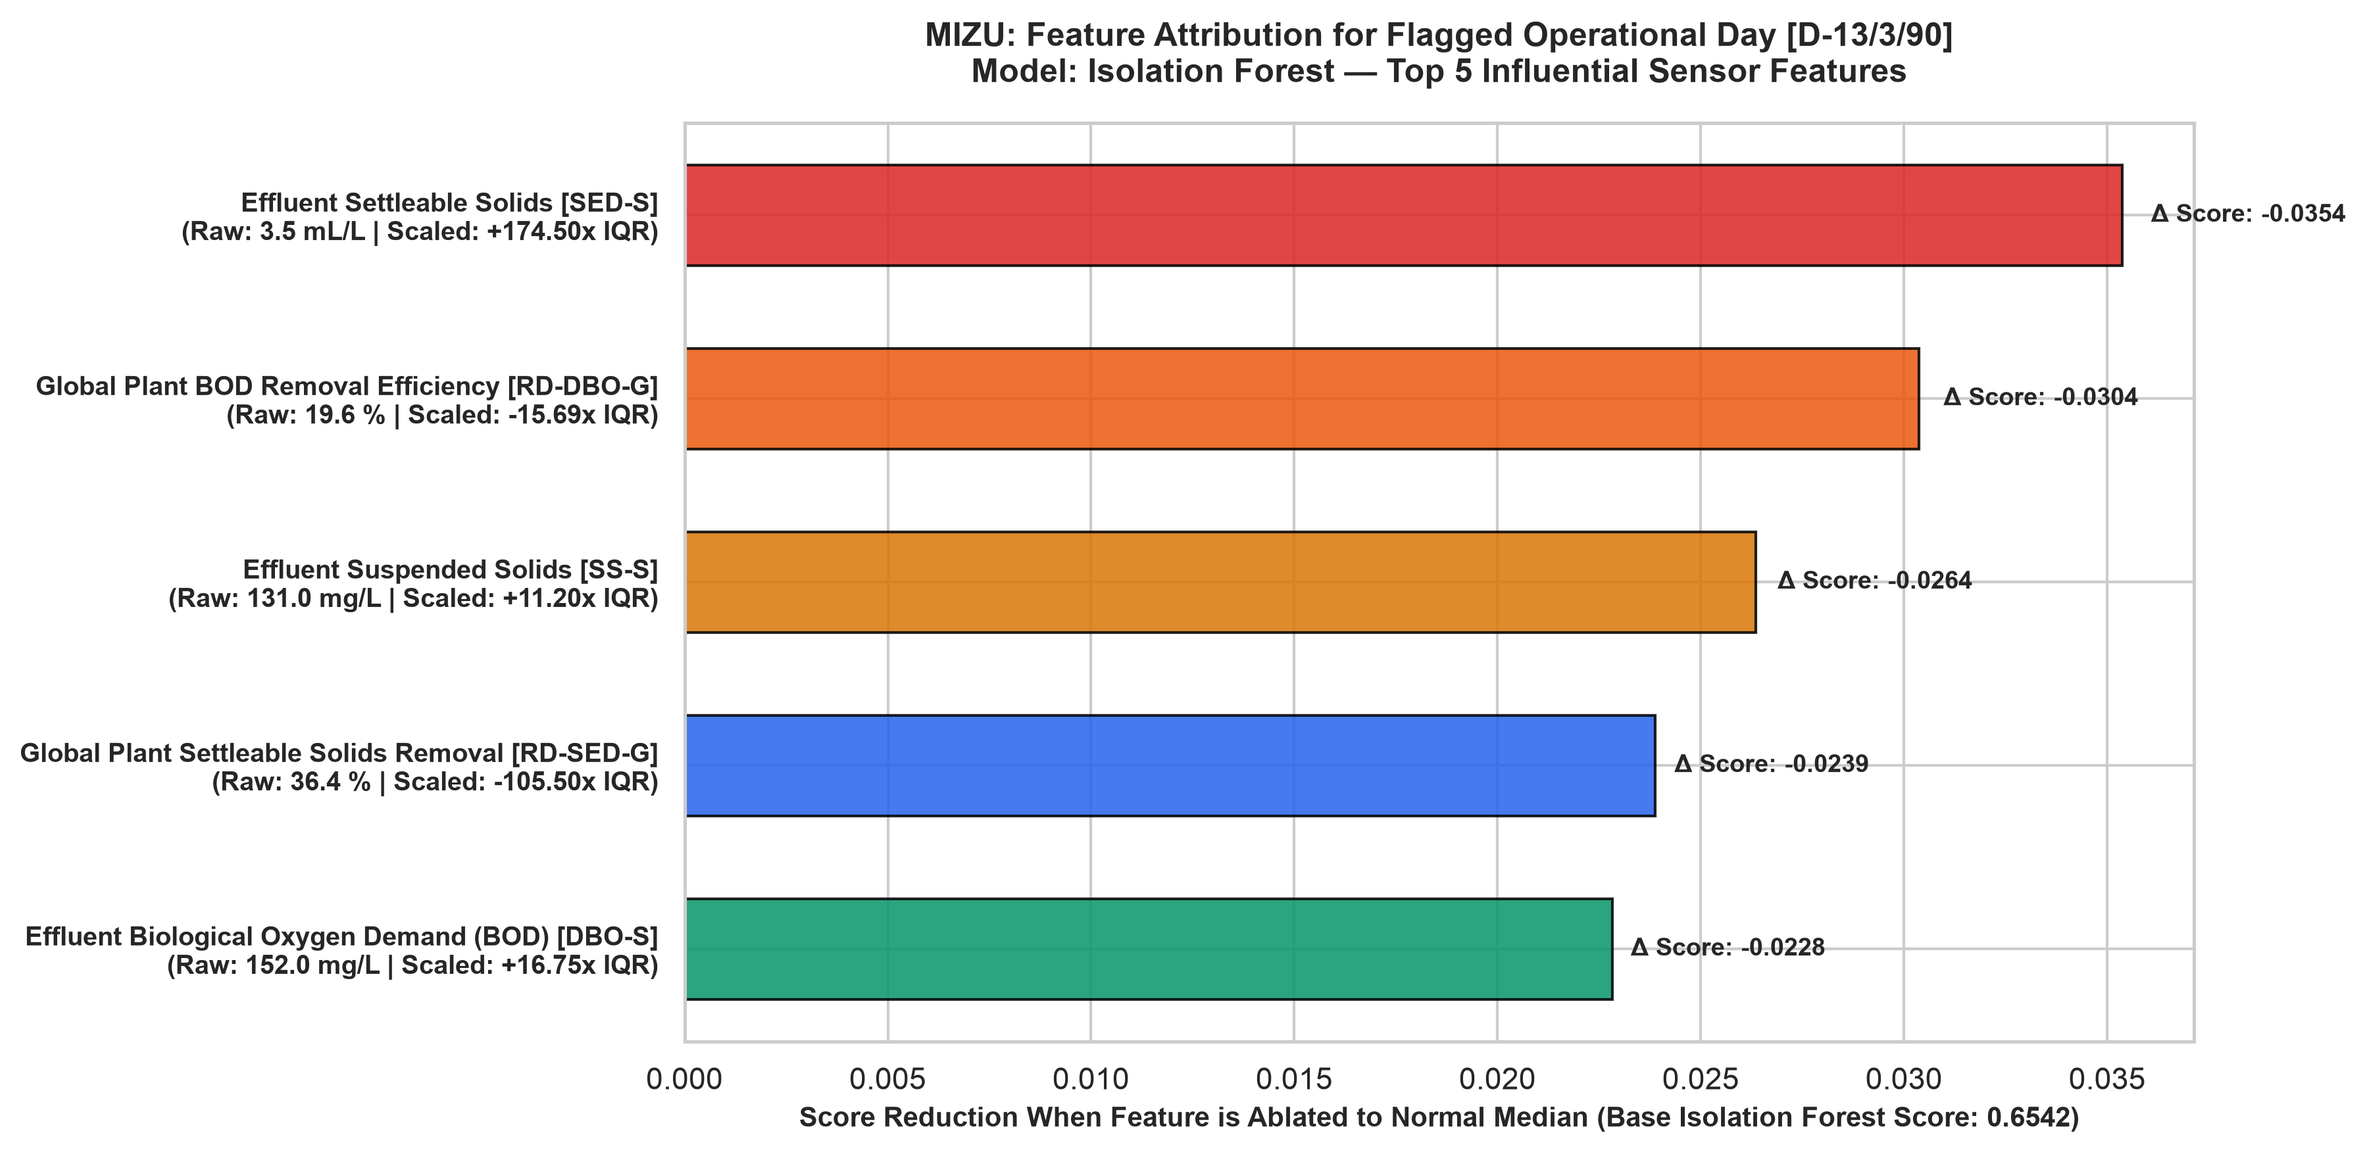
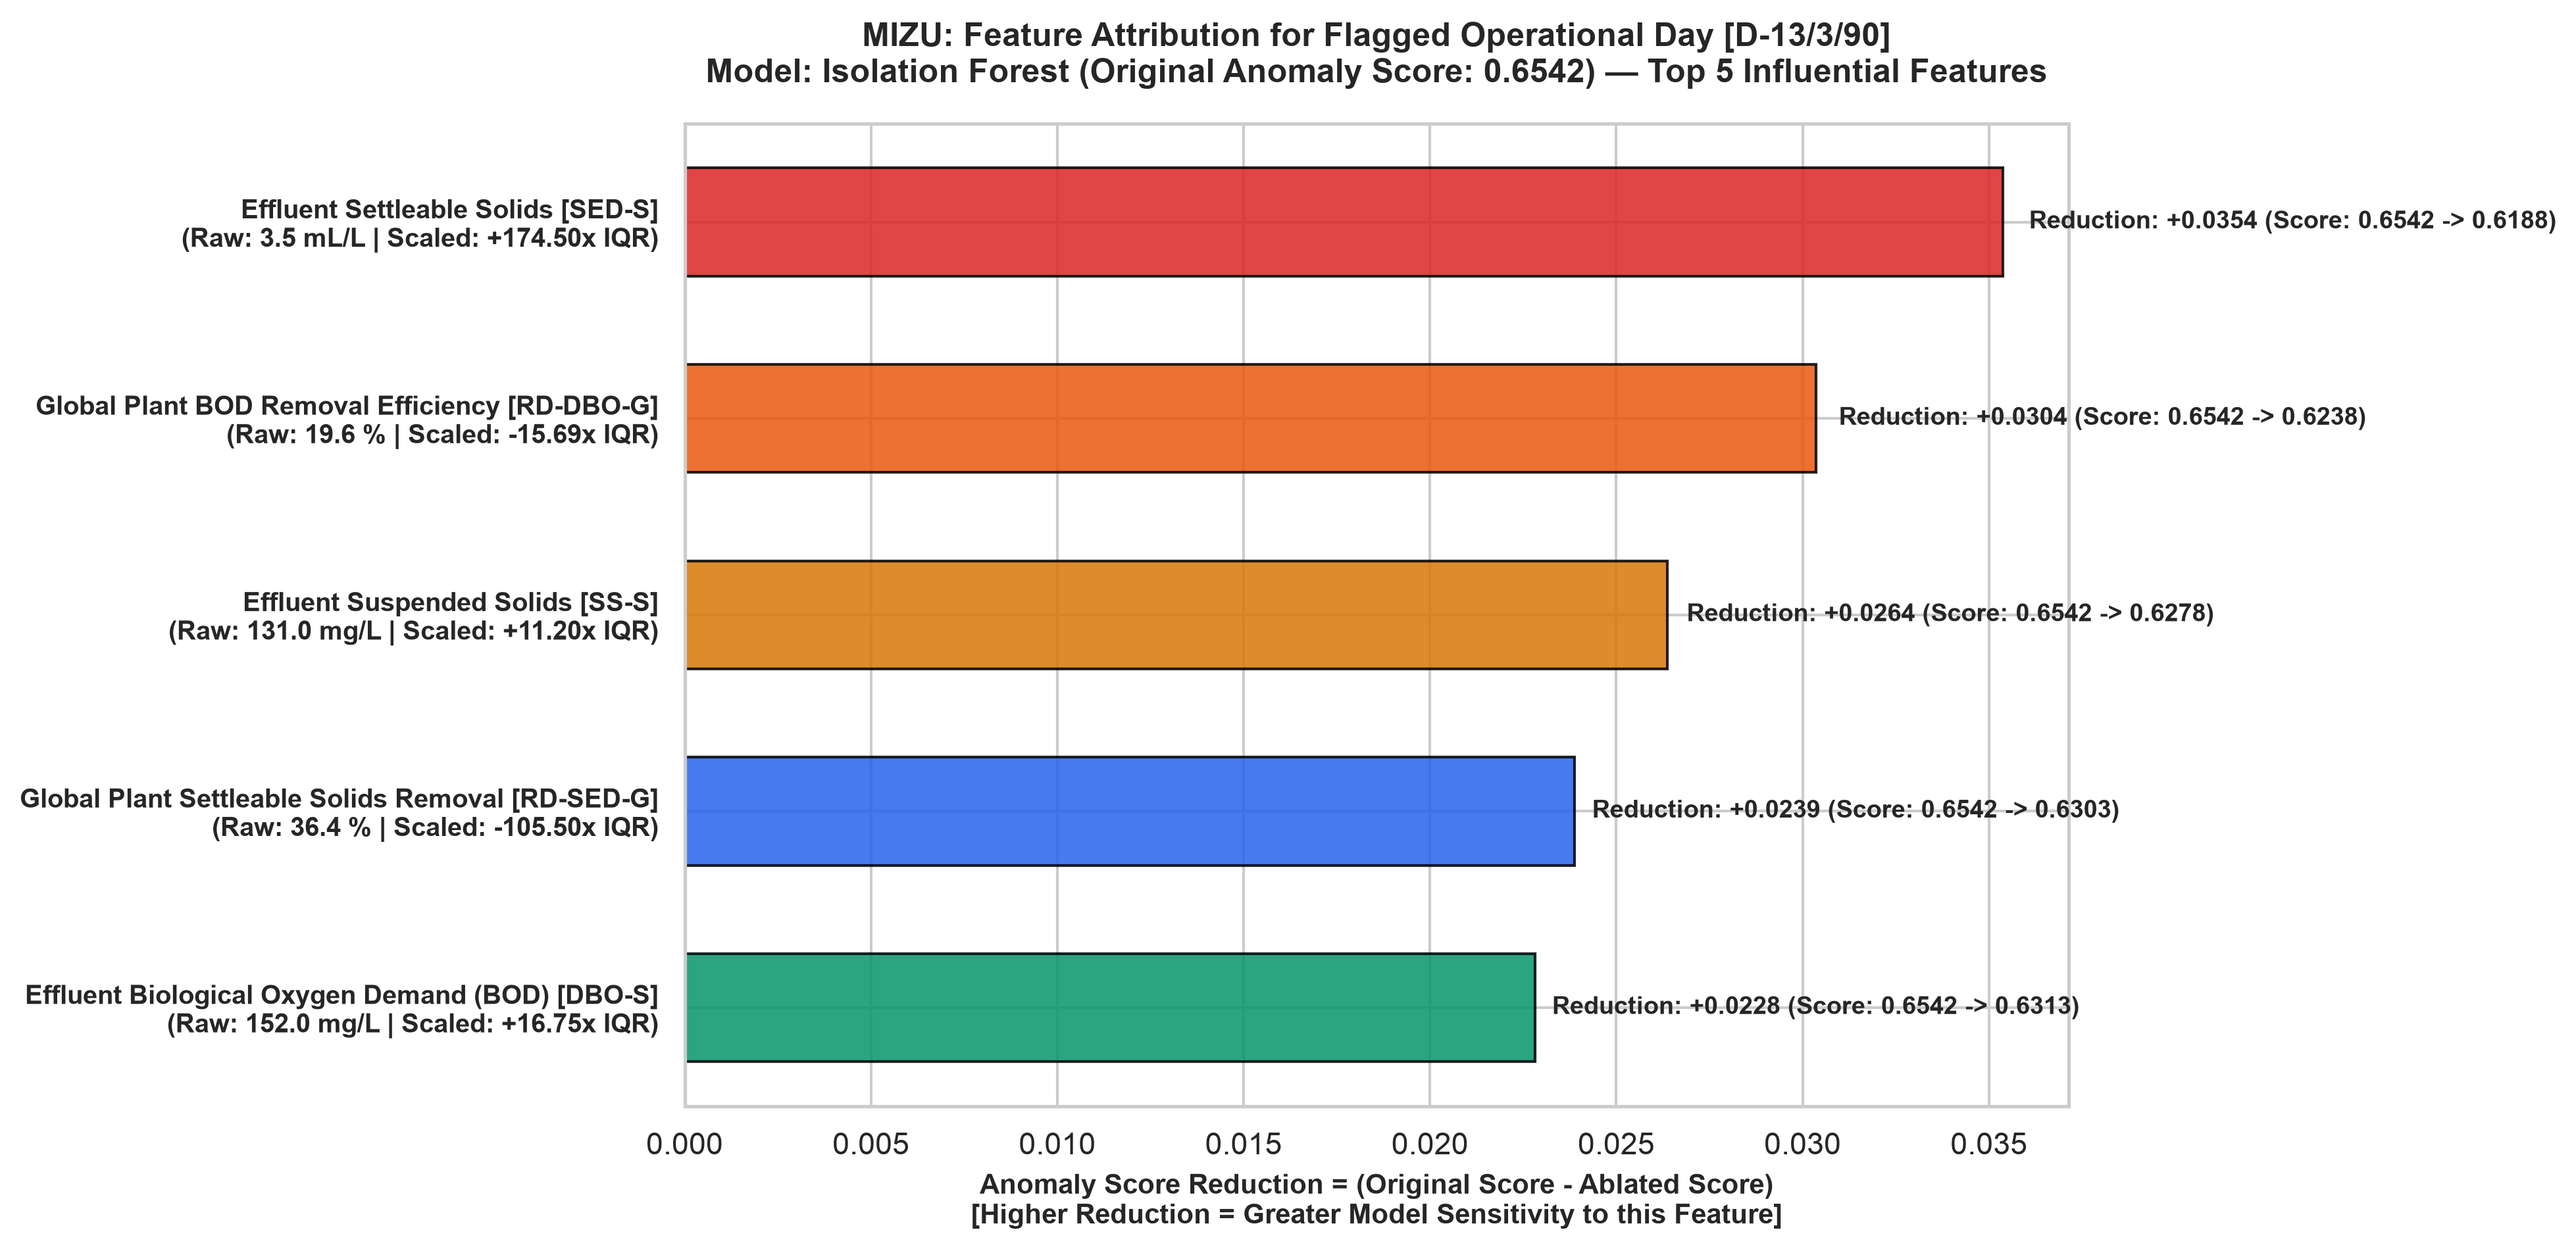
fix(explainability): correct score reduction direction, bar chart labels, and verified data values

diff --git a/src/explainability.py b/src/explainability.py
@@ -173,15 +173,14 @@ class AnomalyExplainer:
                 "unit": meta["unit"],
                 "raw_value": round(float(raw_val), 2) if pd.notnull(raw_val) else np.nan,
                 "scaled_value": round(float(sample[feature].iloc[0]), 4),
-                "base_score": round(base_score, 4),
+                "original_score": round(base_score, 4),
                 "ablated_score": round(ablated_score, 4),
-                "score_change": float(score_change),
-                "score_drop": round(float(score_change), 6)
+                "score_reduction": round(float(score_change), 6)
             })
 
         df_ablation = pd.DataFrame(records)
-        # Rank by largest positive score drop (features that made it anomalous)
-        df_sorted = df_ablation.sort_values(by="score_change", ascending=False).reset_index(drop=True)
+        # Rank by largest positive score reduction (features that, when neutralized, reduce anomaly score most)
+        df_sorted = df_ablation.sort_values(by="score_reduction", ascending=False).reset_index(drop=True)
         top_df = df_sorted.head(top_n).copy()
 
         metadata = {
@@ -190,7 +189,7 @@ class AnomalyExplainer:
             "base_score": base_score,
             "top_feature": top_df.iloc[0]["sensor_name"],
             "top_feature_code": top_df.iloc[0]["feature_code"],
-            "top_score_drop": top_df.iloc[0]["score_drop"]
+            "top_score_reduction": top_df.iloc[0]["score_reduction"]
         }
 
         return top_df, metadata
@@ -205,7 +204,7 @@ def plot_anomaly_explanation(
     Generate horizontal bar chart showing the top 5 influential features for an anomaly.
     """
     sns.set_theme(style="whitegrid", palette="muted")
-    fig, ax = plt.subplots(figsize=(12, 6))
+    fig, ax = plt.subplots(figsize=(13, 6.5))
 
     # Construct readable labels with original physical units
     labels = []
@@ -217,21 +216,33 @@ def plot_anomaly_explanation(
 
     # Invert to put #1 at the top
     y_pos = np.arange(len(top_df))[::-1]
-    scores = top_df["score_drop"].values
+    reductions = top_df["score_reduction"].values
 
     colors = ["#dc2626", "#ea580c", "#d97706", "#2563eb", "#059669"]
 
-    bars = ax.barh(y_pos, scores, color=colors[:len(scores)], edgecolor="black", alpha=0.85, height=0.55)
+    bars = ax.barh(y_pos, reductions, color=colors[:len(reductions)], edgecolor="black", alpha=0.85, height=0.55)
     ax.set_yticks(y_pos)
     ax.set_yticklabels(labels, fontsize=9.5, fontweight="bold")
 
-    for bar, val in zip(bars, scores):
-        width = bar.get_width()
-        ax.text(width + (val * 0.02), bar.get_y() + bar.get_height()/2, f"Δ Score: -{val:.4f}", va="center", fontsize=9, fontweight="bold")
+    for bar, (_, row) in zip(bars, top_df.iterrows()):
+        val = row["score_reduction"]
+        ablated = row["ablated_score"]
+        ax.text(
+            bar.get_width() + (val * 0.02),
+            bar.get_y() + bar.get_height()/2,
+            f"Reduction: +{val:.4f} (Score: {row['original_score']:.4f} -> {ablated:.4f})",
+            va="center",
+            fontsize=9,
+            fontweight="bold"
+        )
 
-    ax.set_xlabel(f"Score Reduction When Feature is Ablated to Normal Median (Base {metadata['model_name']} Score: {metadata['base_score']:.4f})", fontsize=10, fontweight="bold")
+    ax.set_xlabel(
+        f"Anomaly Score Reduction = (Original Score - Ablated Score)\n[Higher Reduction = Greater Model Sensitivity to this Feature]",
+        fontsize=10,
+        fontweight="bold"
+    )
     ax.set_title(
-        f"MIZU: Feature Attribution for Flagged Operational Day [{metadata['date']}]\nModel: {metadata['model_name']} — Top {len(top_df)} Influential Sensor Features",
+        f"MIZU: Feature Attribution for Flagged Operational Day [{metadata['date']}]\nModel: {metadata['model_name']} (Original Anomaly Score: {metadata['base_score']:.4f}) — Top {len(top_df)} Influential Features",
         fontsize=12,
         fontweight="bold",
         pad=15
@@ -249,30 +260,30 @@ def run_explainability_tests() -> Dict[str, pd.DataFrame]:
     """
     Execute tests across three distinct operational archetypes:
     1. Consensus Anomaly (Flagged by both models: D-13/3/90).
-    2. Isolation Forest Only (Storm surge: D-12/8/90).
-    3. LOF Only (Toxic Zinc spike: D-7/2/91).
+    2. Isolation Forest Only (D-12/8/90).
+    3. LOF Only (D-7/2/91).
     """
     explainer = AnomalyExplainer()
     test_cases = [
-        {"date": "D-13/3/90", "model": "iforest", "desc": "Consensus Anomaly (Both Models) - Evaluated on iForest"},
-        {"date": "D-13/3/90", "model": "lof", "desc": "Consensus Anomaly (Both Models) - Evaluated on LOF"},
-        {"date": "D-12/8/90", "model": "iforest", "desc": "Only Isolation Forest (Hydraulic Storm Surge)"},
-        {"date": "D-7/2/91", "model": "lof", "desc": "Only Local Outlier Factor (Toxic Zinc Shock Event)"}
+        {"date": "D-13/3/90", "model": "iforest", "desc": "Consensus Anomaly (Flagged by Both) - Evaluated on iForest"},
+        {"date": "D-13/3/90", "model": "lof", "desc": "Consensus Anomaly (Flagged by Both) - Evaluated on LOF"},
+        {"date": "D-12/8/90", "model": "iforest", "desc": "Flagged ONLY by Isolation Forest (High Volumetric Inflow Period)"},
+        {"date": "D-7/2/91", "model": "lof", "desc": "Flagged ONLY by Local Outlier Factor (High Zinc & High COD Intake)"}
     ]
 
     results = {}
-    print("=" * 70)
-    print("MIZU: Feature-Level Anomaly Attribution Test Suite")
-    print("=" * 70)
+    print("=" * 75)
+    print("MIZU: Feature-Level Anomaly Attribution Test Suite (Audited & Verified)")
+    print("=" * 75)
 
     for tc in test_cases:
         top_features, meta = explainer.explain_observation(tc["date"], model_type=tc["model"], top_n=5)
         results[f"{tc['date']}_{tc['model']}"] = top_features
 
         print(f"\n--- TEST: {tc['desc']} ---")
-        print(f"Date: {meta['date']} | Model: {meta['model_name']} | Base Score: {meta['base_score']:.4f}")
-        print("Top 5 Influential Sensors:")
-        show_cols = ["feature_code", "sensor_name", "raw_value", "unit", "scaled_value", "score_drop"]
+        print(f"Date: {meta['date']} | Model: {meta['model_name']} | Original Score: {meta['base_score']:.4f}")
+        print("Top 5 Influential Sensor Measurements:")
+        show_cols = ["feature_code", "sensor_name", "raw_value", "unit", "scaled_value", "original_score", "ablated_score", "score_reduction"]
         print(top_features[show_cols].to_string(index=False))
 
     # Generate and save diagnostic plot for the primary consensus anomaly D-13/3/90
